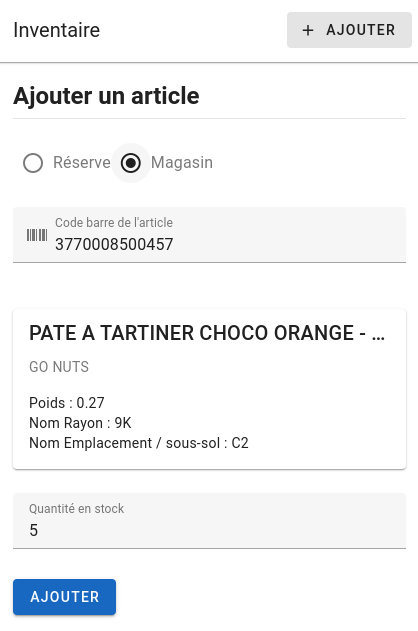
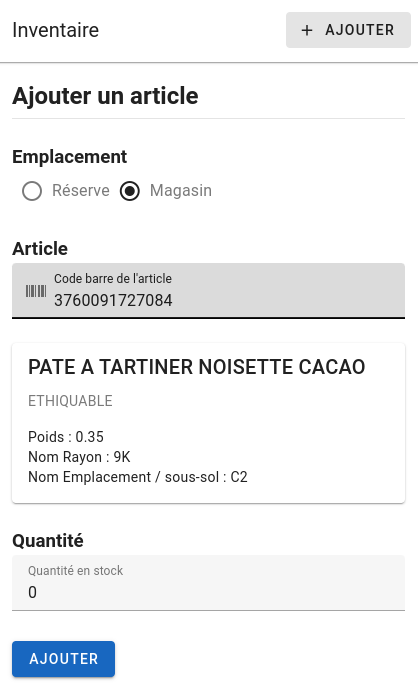
Manage case where 1 partial code = multiple articles

diff --git a/src/views/AddArticle.vue b/src/views/AddArticle.vue
@@ -6,6 +6,7 @@
   <br />
 
   <v-form @submit.prevent="addArticle">
+    <h3>Emplacement</h3>
     <v-row>
       <v-col cols="12" md="6">
         <v-radio-group v-model="addArticleForm.location" inline hide-details="auto">
@@ -13,33 +14,48 @@
         </v-radio-group>
       </v-col>
     </v-row>
+
+    <br />
+    <h3>Article</h3>
     <v-row>
-      <v-col cols="12" sm="6">
+      <v-col cols="12" md="6">
         <v-text-field
           v-model="addArticleForm.code"
           label="Code barre de l'article"
           type="text"
           :prepend-inner-icon="addArticleForm.code ? 'mdi-barcode' : 'mdi-barcode-scan'"
+          hide-details="auto"
           @click:prependInner="showBarcodeScanner"
           @update:modelValue="setArticleCode"
         ></v-text-field>
       </v-col>
-      <v-col cols="12" sm="6">
-        <v-card v-if="article">
-          <v-card-title>{{ article['Désignation'] }}</v-card-title>
-          <v-card-subtitle>{{ article['NomFournisseur'] }}</v-card-subtitle>
+      <v-col cols="12" md="6">
+        <v-card v-if="articleListFound && articleListFound.length == 1">
+          <v-card-title>{{ articleListFound[0]['Désignation'] }}</v-card-title>
+          <v-card-subtitle>{{ articleListFound[0]['NomFournisseur'] }}</v-card-subtitle>
           <v-card-text>
-            <p v-for="key in ['Poids', 'Nom Rayon', 'Nom Emplacement / sous-sol']">{{ key }} : {{ article[key] }}</p>
+            <p v-for="key in ['C.Article', 'Poids', 'Nom Rayon', 'Nom Emplacement / sous-sol']">{{ key }} : {{ articleListFound[0][key] }}</p>
           </v-card-text>
         </v-card>
-        <v-card v-if="!article">
-          <v-card-text v-if="!addArticleForm.code">Scanner un article</v-card-text>
+        <v-card v-if="articleListFound && articleListFound.length > 1">
+          <v-card-text>Plusieurs articles trouvés ({{ articleListFound.length }}) dont le code barre commence par <strong>{{ addArticleForm.code }}</strong></v-card-text>
+          <v-list>
+            <v-list-item v-for="article in articleListFound">
+              <strong>{{ article['Désignation'] }}</strong> <span>({{ article['C.Article'] }})</span>
+            </v-list-item>
+          </v-list>
+        </v-card>
+        <v-card v-if="!articleListFound">
+          <v-card-text v-if="!addArticleForm.code">Scannez un article en cliquant sur <v-icon icon="mdi-barcode-scan"></v-icon></v-card-text>
           <v-card-text v-if="addArticleForm.code">Pas trouvé...</v-card-text>
         </v-card>
       </v-col>
     </v-row>
+
+    <br />
+    <h3>Quantité</h3>
     <v-row>
-      <v-col cols="12" md="3">
+      <v-col cols="12" md="6">
         <v-text-field
           v-model="addArticleForm.quantity"
           label="Quantité en stock"
@@ -53,7 +69,7 @@
       class="mt-2"
       :color="formFilled ? 'primary' : 'default'"
       :loading="loading"
-      :disabled="!formFilled"
+      :disabled="!formFilled || articleListFound.length > 1"
     >Ajouter</v-btn>
   </v-form>
 
@@ -89,7 +105,7 @@ export default {
         quantity: 0
       },
       locationChoices: [],  // see init
-      article: null,
+      articleListFound: [],
       barcodeScanner: false,
       addSuccessMessage: false,
       loading: false
@@ -110,7 +126,7 @@ export default {
       this.addArticleForm.location = this.appStore.lastLocationUsed || this.locationChoices[0]['name']
       this.addArticleForm.code = null
       this.addArticleForm.quantity = 0
-      this.article = null
+      this.articleListFound = null
       if (withSuccessMessage) {
         this.addSuccessMessage = true
       }
@@ -123,8 +139,7 @@ export default {
     },
     setArticleCode(code) {
       this.addArticleForm.code = code
-      this.article = null
-      this.article = api.getArticle(this.addArticleForm.location, code)
+      this.articleListFound = api.getArticleListByCode(this.addArticleForm.location, code)
     },
     addArticle() {
       api.updateRowsSheetsData(this.addArticleForm.location, this.addArticleForm)

diff --git a/src/services/api.js b/src/services/api.js
@@ -30,8 +30,8 @@ export default {
 
   getGoogleSheetsArticleIndex(sheetName, articleCode) {
     const store = useAppStore()
-    let articleList = store.googleSheetsData[sheetName][1] // column with numbers
-    return articleList.findIndex(article => article.replace == articleCode)
+    let articleList = store.googleSheetsData[sheetName][import.meta.env.VITE_ROWS_COLUMN_ARTICLE_CODE_INDEX]
+    return articleList.findIndex(article => article == articleCode)
   },
 
   getArticle(sheetName, articleCode) {
@@ -71,6 +71,9 @@ export default {
 
 
   //////////////////////////////////////////////
+  // 1) getRowsSheetsData & setRowsSheetsData
+  // 2) user starts typing a code (or scans) : getArticleListByCode
+  // 3) user found corresponding article (1 matching code) : getRowsSheetsArticleIndex & updateRowsSheetsData
 
   getRowsSheetsData(tableId) {
     const store = useAppStore()
@@ -95,28 +98,39 @@ export default {
     })
   },
 
-  getRowsSheetsArticleIndex(sheetName, articleCode) {
+  getRowsSheetsArticleCodeMatched(sheetName, articleCode) {
     const store = useAppStore()
-    // let articleList = store.rowsSheetsData[sheetName][0]
-    // return articleList.findIndex(article => article.replace(',','') == articleCode)
-    // let articleList = store.rowsSheetsData[sheetName][1] // column with numbers
-    // return articleList.findIndex(article => article == articleCode)
-    let articleList = store.rowsSheetsData[sheetName][1]
-    let articleCodeCleaned = parseInt(articleCode).toString()
-    return articleList.findIndex(article => article && article.startsWith(articleCodeCleaned))
+    let articleCodeList = store.rowsSheetsData[sheetName][import.meta.env.VITE_ROWS_COLUMN_ARTICLE_CODE_INDEX]
+    let articleCodeCleaned = parseInt(articleCode).toString()  // remove 0 padding
+    return articleCodeList.filter(article => article && article.startsWith(articleCodeCleaned))
   },
 
-  getArticle(sheetName, articleCode) {
+  getRowsSheetsArticleIndex(sheetName, articleCode) {
     const store = useAppStore()
-    const articleIndex = this.getRowsSheetsArticleIndex(sheetName, articleCode)
-    if (articleIndex > -1) {
-      let articleData = {}
-      store.rowsSheetsData[sheetName].forEach(column => {
-        articleData[column[0]] = column[articleIndex]
-      })
-      return articleData
-    }
-    return null
+    let articleList = store.rowsSheetsData[sheetName][import.meta.env.VITE_ROWS_COLUMN_ARTICLE_CODE_INDEX]
+    let articleCodeCleaned = parseInt(articleCode).toString()  // remove 0 padding
+    return articleList.findIndex(article => article && article.startsWith(articleCodeCleaned))  // article.replace(',','')
+  },
+
+  getArticleObjectFromIndex(sheetName, articleIndex) {
+    const store = useAppStore()
+    let articleData = {}
+    store.rowsSheetsData[sheetName].forEach(column => {
+      articleData[column[0]] = column[articleIndex]
+    })
+    return articleData
+  },
+
+  getArticleListByCode(sheetName, articleCode) {
+    const articleCodeMatched = this.getRowsSheetsArticleCodeMatched(sheetName, articleCode)
+    let articleObjectList = []
+    articleCodeMatched.forEach((articleCode) => {
+      const articleIndex = this.getRowsSheetsArticleIndex(sheetName, articleCode)
+      if (articleIndex > -1) {
+        articleObjectList.push(this.getArticleObjectFromIndex(sheetName, articleIndex))
+      }
+    })
+    return articleObjectList
   },
 
   updateRowsSheetsData(sheetName, articleData) {

diff --git a/src/views/Home.vue b/src/views/Home.vue
@@ -5,8 +5,10 @@
 
   <br />
 
-<v-btn class="mr-2 mb-2" color="primary" prepend-icon="mdi-plus" to="/add">Ajouter un article</v-btn>
-<v-btn prepend-icon="mdi-google-spreadsheet" :href="rowsURL" target="_blank">Tableur partagé</v-btn>
+<v-btn color="primary" prepend-icon="mdi-plus" to="/add">Ajouter un article</v-btn>
+<br />
+<br />
+<v-btn prepend-icon="mdi-google-spreadsheet" append-icon="mdi-open-in-new" :href="rowsURL" target="_blank">Tableur partagé</v-btn>
 
 <v-snackbar
     v-model="addSuccessMessage"
